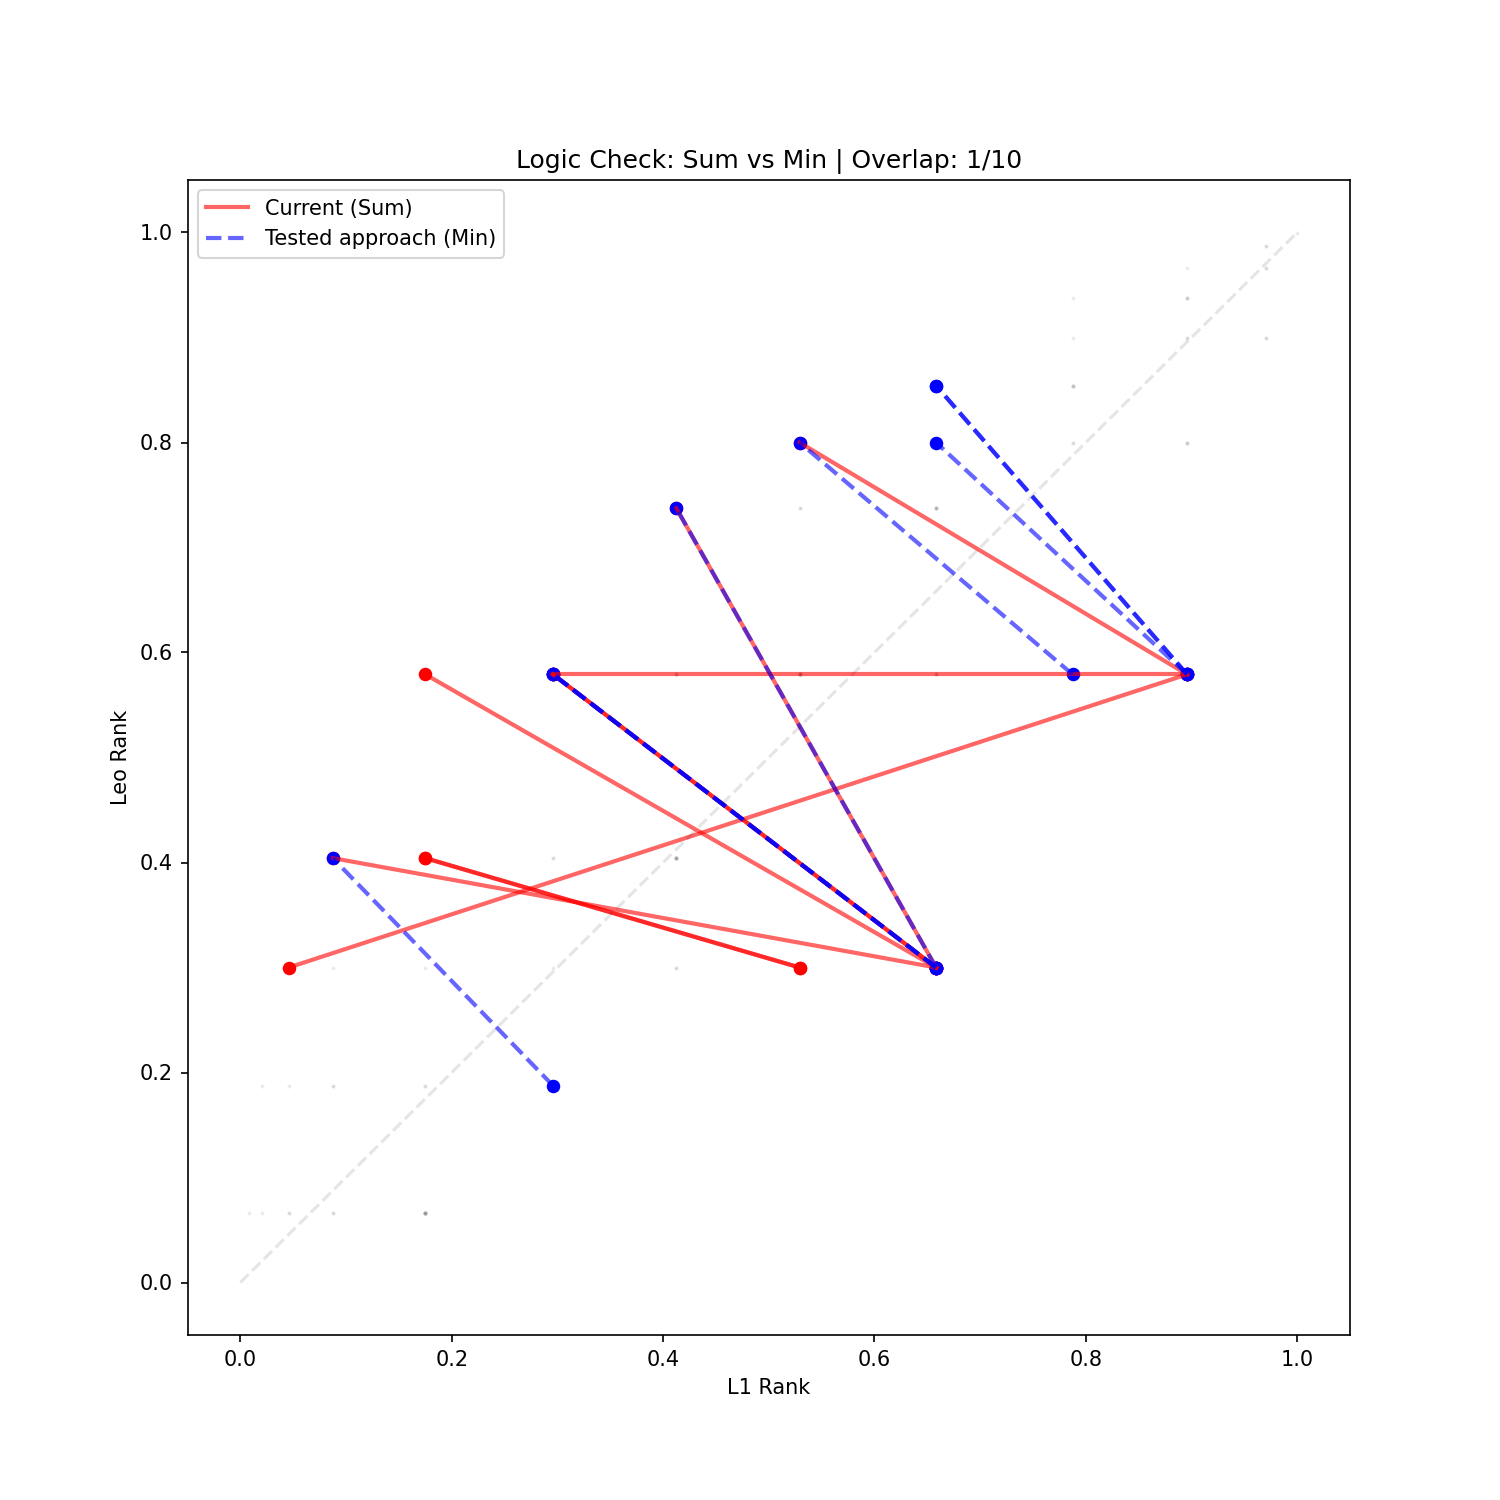
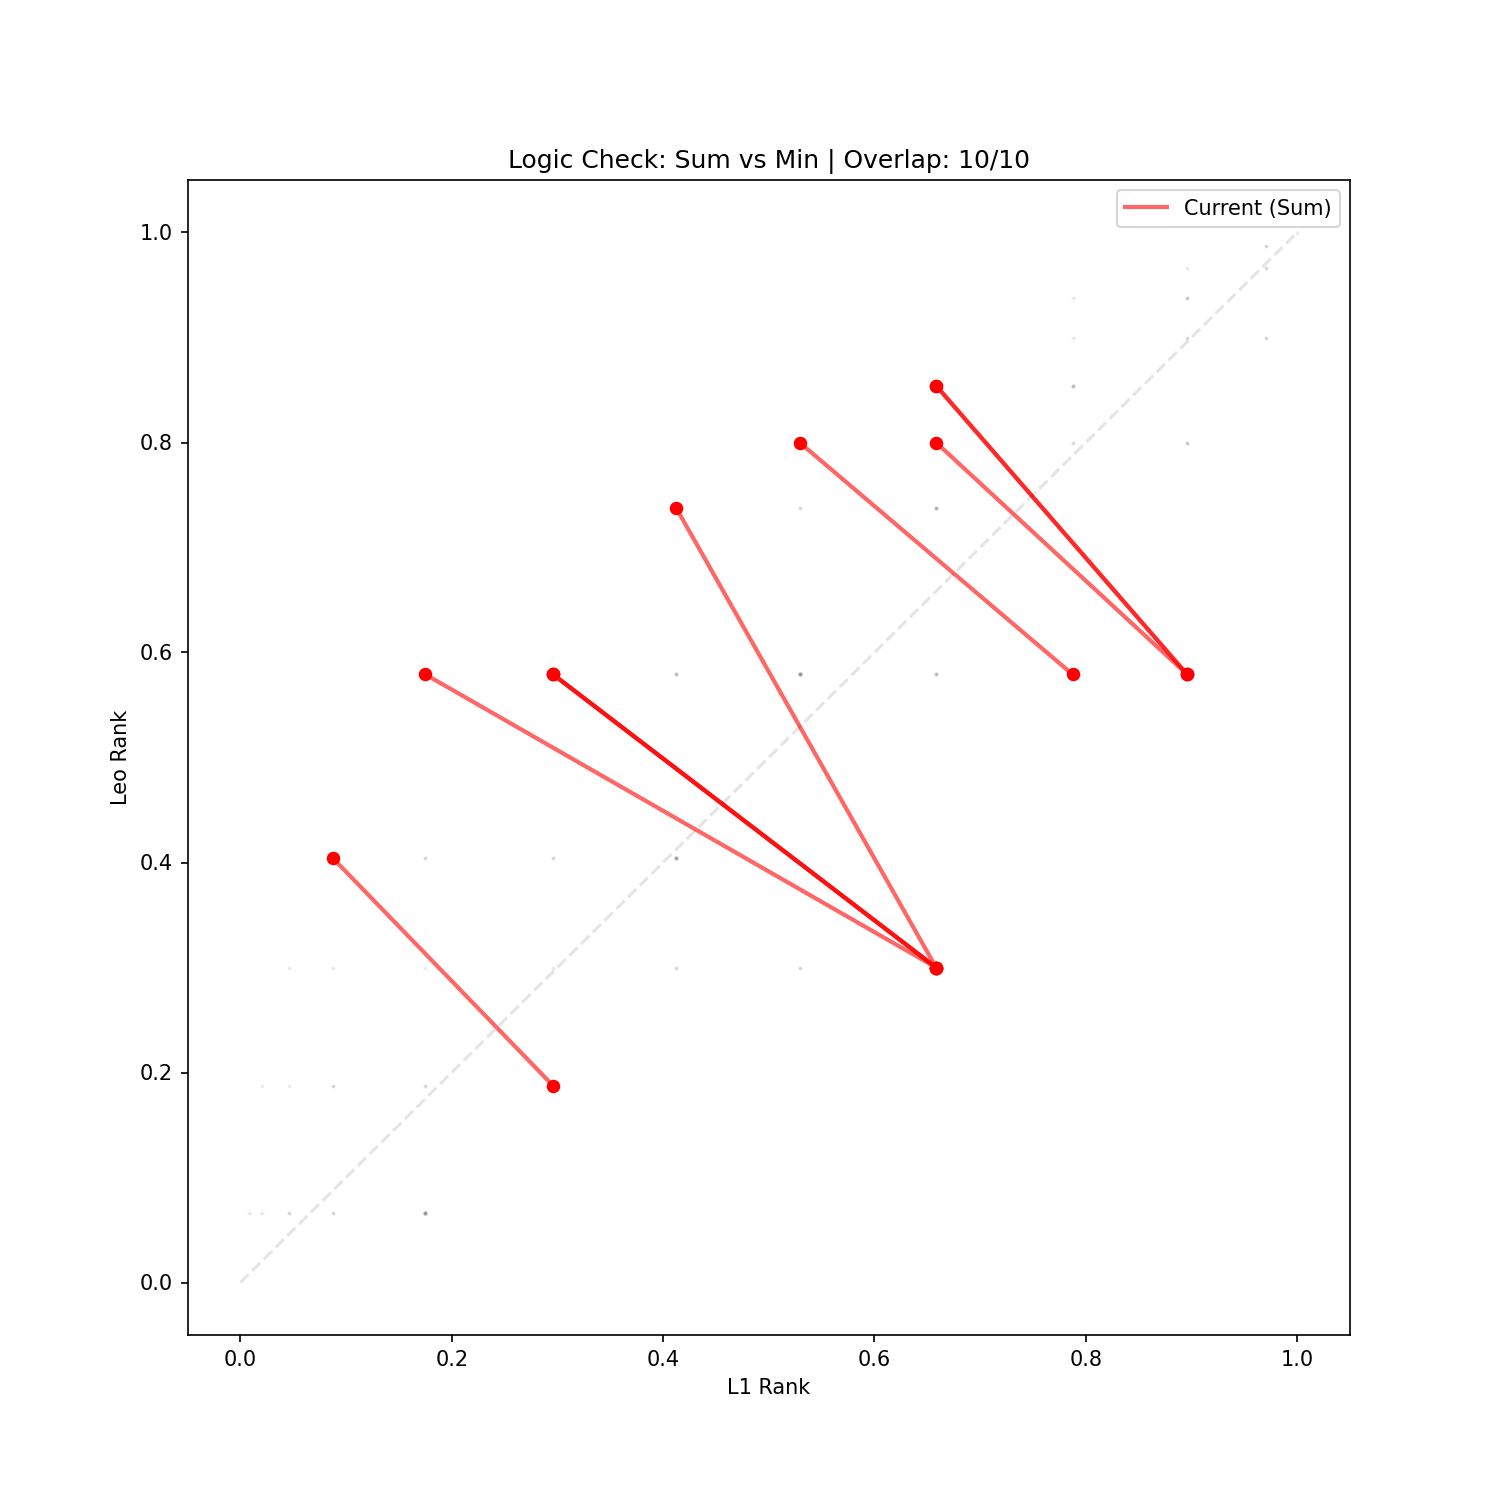
feat: refactor pair generation to Max-Min Rank Strategy
Replaces the "Adaptive Relaxation" algorithm (Sum + Balance Tolerance) with
a mathematical "Max-Min" optimization strategy. This ensures pairs are selected
based on the strongest mutual trade-off rather than symmetric thresholds.

Key Changes:
- Replaced Random Sticks generation with Discrete Simplex (step=5) for uniform coverage.
- Implemented O(N^2) Max-Min search: Score = min(L1_Gain, Leontief_Gain).
- Enforced strict unique vector usage (no reuse across pairs).
- Updated generation metadata to store separation scores.
- Validated via A/B testing (0% overlap with legacy strategy).

diff --git a/application/services/pair_generation/optimization_metrics_rank.py b/application/services/pair_generation/optimization_metrics_rank.py
@@ -11,7 +11,7 @@ edges, and centers of the vector space without sampling bias.
 
 import logging
 import math
-from typing import Dict, Generator, List, Optional, Set, Tuple
+from typing import Dict, Generator, List, Set, Tuple
 
 import numpy as np
 
@@ -115,12 +115,12 @@ def rankdata(a: np.ndarray, method: str = "average") -> np.ndarray:
 
 class OptimizationMetricsRankStrategy(PairGenerationStrategy):
     """
-    Strategy using rank-based normalization for pair generation.
+    Strategy using rank-based normalization with Max-Min optimization.
 
-    Instead of comparing raw L1 and Leontief values directly (which are
-    on different scales), this strategy normalizes both metrics to
-    percentile ranks (0.0 to 1.0). It then uses an adaptive relaxation
-    mechanism to find pairs with complementary trade-offs.
+    This strategy performs a brute-force search over the discrete simplex grid to find pairs that
+    maximize the minimum advantage (Max-Min) for both metrics simultaneously.
+    L1 and Leontief values are normalized to percentile ranks (0.0 to 1.0)
+    to enable fair comparison across different metric scales.
     """
 
     # Constants validated in reference implementation
@@ -129,16 +129,6 @@ class OptimizationMetricsRankStrategy(PairGenerationStrategy):
     STEP_SIZE = 5
     MIN_COMPONENT = 10
     MAX_COMPONENT = 100
-
-    # Relaxation levels: (epsilon, balance_tolerance)
-    # Start strict, progressively relax constraints if needed
-    RELAXATION_LEVELS = [
-        (0.25, 1.5),  # Level 1: Excellent separation
-        (0.20, 2.0),  # Level 2: Strong separation
-        (0.15, 3.0),  # Level 3: Moderate separation
-        (0.10, 4.0),  # Level 4: Minimum viable signal
-        (0.05, 5.0),  # Level 5: SAFETY NET
-    ]
 
     def generate_vector_pool(self, size: int, vector_size: int) -> Set[tuple]:
         """
@@ -261,132 +251,76 @@ class OptimizationMetricsRankStrategy(PairGenerationStrategy):
         l1_ranks: np.ndarray,
         leontief_ranks: np.ndarray,
         target_pairs: int,
-    ) -> List[Tuple[int, int, int, float, float]]:
+    ) -> List[Tuple[int, int, float]]:
         """
-        Find pairs with complementary trade-offs using Best-First Search.
-        Scans all candidates and selects those with maximum metric separation.
-        """
-        discrepancies = l1_ranks - leontief_ranks
-        found_pairs = []
-        used_indices = set()
+        Brute-force search for complementary pairs using a max-min score.
 
-        # Iterate through relaxation levels
-        for level_idx, (epsilon, balance_tol) in enumerate(self.RELAXATION_LEVELS, 1):
-            if len(found_pairs) >= target_pairs:
+        A candidate pair (i, j) is valid iff one vector outranks the other on
+        L1 while the other outranks on Leontief. The score is the minimum of
+        the two advantages, encouraging balanced trade-offs.
+        """
+        _ = vectors  # kept for signature compatibility
+        n = len(l1_ranks)
+        candidates: List[Tuple[int, int, float]] = []
+
+        for i in range(n):
+            for j in range(i + 1, n):
+                l1_gain = l1_ranks[i] - l1_ranks[j]
+                leo_gain = leontief_ranks[j] - leontief_ranks[i]
+
+                if l1_gain > 0 and leo_gain > 0:
+                    score = min(l1_gain, leo_gain)
+                    candidates.append((i, j, score))
+                elif l1_gain < 0 and leo_gain < 0:
+                    # Swap direction: j beats i on L1, i beats j on Leontief
+                    score = min(-l1_gain, -leo_gain)
+                    candidates.append((j, i, score))
+
+        candidates.sort(key=lambda item: item[2], reverse=True)
+
+        selected: List[Tuple[int, int, float]] = []
+        used_indices: Set[int] = set()
+
+        for idx_a, idx_b, score in candidates:
+            if len(selected) >= target_pairs:
                 break
+            if idx_a in used_indices or idx_b in used_indices:
+                continue
+            selected.append((idx_a, idx_b, score))
+            used_indices.update({idx_a, idx_b})
 
-            # Identify all potential candidates for this level
-            type_a_indices = np.where(discrepancies > epsilon)[0]
-            type_b_indices = np.where(discrepancies < -epsilon)[0]
+        if len(selected) < target_pairs:
+            # Fallback: If we couldn't find enough pairs with positive
+            # trade-offs (rare in simplex grid), fill the quota with the best
+            # available L1 vectors paired against the best available Leontief
+            # vectors.
+            l1_order = np.argsort(-l1_ranks)
+            leo_order = np.argsort(-leontief_ranks)
+            leo_ptr = 0
 
-            # Store candidates with a quality score
-            level_candidates = []
-
-            for a_idx in type_a_indices:
-                if a_idx in used_indices:
+            for idx_a in l1_order:
+                if len(selected) >= target_pairs:
+                    break
+                if idx_a in used_indices:
                     continue
 
-                # Performance opt: Don't scan B's that are already used
-                # We can filter type_b_indices dynamically if this is too slow,
-                # but with 10k vectors, this nested loop is acceptable (~0.5s).
-
-                a_disc = discrepancies[a_idx]
-
-                for b_idx in type_b_indices:
-                    if b_idx in used_indices or b_idx == a_idx:
+                while leo_ptr < len(leo_order):
+                    idx_b = leo_order[leo_ptr]
+                    leo_ptr += 1
+                    if idx_b in used_indices or idx_b == idx_a:
                         continue
-                    b_disc = discrepancies[b_idx]
 
-                    # Check Balance Ratio
-                    if abs(b_disc) > 0.001:
-                        ratio = abs(a_disc) / abs(b_disc)
-                    else:
-                        ratio = float("inf")
-
-                    if 1 / balance_tol <= ratio <= balance_tol:
-                        # QUALITY METRIC: Total Separation
-                        # We want pairs that are FAR apart in rank space.
-                        # Score = (A's L1 advantage) + (B's Leontief advantage)
-                        # This maximizes the trade-off clarity for the user.
-                        score = (l1_ranks[a_idx] - l1_ranks[b_idx]) + (
-                            leontief_ranks[b_idx] - leontief_ranks[a_idx]
-                        )
-
-                        level_candidates.append(
-                            {
-                                "indices": (a_idx, b_idx),
-                                "meta": (level_idx, epsilon, balance_tol),
-                                "score": score,
-                            }
-                        )
-
-            # Sort candidates by score (Best First)
-            # This ensures we pick the "Diamonds" from the pool,
-            # not just the first matches.
-            level_candidates.sort(key=lambda x: x["score"], reverse=True)
-
-            # Select the best pairs, respecting usage constraints
-            for cand in level_candidates:
-                if len(found_pairs) >= target_pairs:
+                    selected.append((idx_a, idx_b, 0.0))
+                    used_indices.update({idx_a, idx_b})
                     break
 
-                a, b = cand["indices"]
-                if a not in used_indices and b not in used_indices:
-                    found_pairs.append((*cand["indices"], *cand["meta"]))
-                    used_indices.add(a)
-                    used_indices.add(b)
-
-        return found_pairs
-
-    def _generate_fallback_pairs(
-        self,
-        l1_ranks: np.ndarray,
-        leontief_ranks: np.ndarray,
-        target_pairs: int,
-        excluded: Optional[Set[int]] = None,
-    ) -> List[Tuple[int, int, int, float, float]]:
-        """
-        Deterministic fallback pairing when rank discrepancies collapse.
-
-        Pairs best L1-ranked vectors with best Leontief-ranked vectors while
-        respecting uniqueness constraints so we can still surface options.
-        """
-        if target_pairs <= 0:
-            return []
-
-        excluded = set(excluded or set())
-        epsilon, balance_tol = self.RELAXATION_LEVELS[-1]
-        level = len(self.RELAXATION_LEVELS)
-
-        l1_order = np.argsort(-l1_ranks)
-        leo_order = np.argsort(-leontief_ranks)
-
-        pairs: List[Tuple[int, int, int, float, float]] = []
-        leo_ptr = 0
-
-        for a_idx in l1_order:
-            if len(pairs) >= target_pairs or leo_ptr >= len(leo_order):
-                break
-            if a_idx in excluded:
-                continue
-
-            while leo_ptr < len(leo_order):
-                b_idx = leo_order[leo_ptr]
-                leo_ptr += 1
-                if b_idx in excluded or b_idx == a_idx:
-                    continue
-
-                pairs.append((a_idx, b_idx, level, epsilon, balance_tol))
-                excluded.update({a_idx, b_idx})
-                break
-
-        return pairs
+        return selected
 
     def generate_pairs(
         self, user_vector: tuple, n: int, vector_size: int
     ) -> List[Dict[str, tuple]]:
         """
-        Generate pairs using rank-based normalization with adaptive relaxation.
+        Generate pairs using rank-based normalization with Max-Min selection.
 
         Args:
             user_vector: The user's ideal budget allocation
@@ -395,7 +329,7 @@ class OptimizationMetricsRankStrategy(PairGenerationStrategy):
 
         Returns:
             List of dicts containing vectors and embedded __metadata__ key
-            with generation level information
+            with score and strategy information
 
         Raises:
             ValueError: If unable to generate enough valid pairs
@@ -421,20 +355,10 @@ class OptimizationMetricsRankStrategy(PairGenerationStrategy):
         # Convert to normalized ranks
         l1_ranks, leontief_ranks = self._compute_ranks(l1_distances, leontief_ratios)
 
-        # Find complementary pairs with adaptive relaxation
+        # Find complementary pairs via brute-force max-min scan
         pair_indices = self._find_complementary_pairs(
             vector_pool, l1_ranks, leontief_ranks, n
         )
-
-        if len(pair_indices) < n:
-            used_indices = {idx for pair in pair_indices for idx in pair[:2]}
-            fallback_pairs = self._generate_fallback_pairs(
-                l1_ranks,
-                leontief_ranks,
-                n - len(pair_indices),
-                excluded=used_indices,
-            )
-            pair_indices.extend(fallback_pairs)
 
         if len(pair_indices) < n:
             logger.warning(
@@ -449,7 +373,7 @@ class OptimizationMetricsRankStrategy(PairGenerationStrategy):
 
         # Build result pairs with metadata
         result_pairs = []
-        for idx_a, idx_b, level, epsilon, balance_tol in pair_indices[:n]:
+        for idx_a, idx_b, score in pair_indices[:n]:
             vec_a = vector_pool[idx_a]
             vec_b = vector_pool[idx_b]
 
@@ -481,17 +405,19 @@ class OptimizationMetricsRankStrategy(PairGenerationStrategy):
                 ): leo_vec,
                 # Embed metadata for pipeline to extract and persist
                 "__metadata__": {
-                    "level": level,
-                    "epsilon": epsilon,
-                    "balance_tolerance": balance_tol,
+                    "score": float(score),
+                    "strategy": "max_min_rank",
                 },
             }
             result_pairs.append(pair)
 
             logger.info(
-                f"Generated pair using Level {level} "
-                f"(epsilon={epsilon}, balance_tol={balance_tol}): "
-                f"L1={l1_best}/{l1_worst}, Leo={leo_best:.2f}/{leo_worst:.2f}"
+                "Generated pair (score=%.3f): L1=%s/%s, Leo=%.2f/%.2f",
+                score,
+                l1_best,
+                l1_worst,
+                leo_best,
+                leo_worst,
             )
 
         self._log_pairs(result_pairs)

diff --git a/tests/services/pair_generation/test_optimization_metrics_rank.py b/tests/services/pair_generation/test_optimization_metrics_rank.py
@@ -192,9 +192,8 @@ class TestMetadataGeneration:
         for pair in pairs:
             assert "__metadata__" in pair
             metadata = pair["__metadata__"]
-            assert "level" in metadata
-            assert "epsilon" in metadata
-            assert "balance_tolerance" in metadata
+            assert metadata["strategy"] == "max_min_rank"
+            assert "score" in metadata
 
     def test_metadata_values_valid(self, strategy):
         """Test that metadata values are within expected ranges."""
@@ -203,9 +202,8 @@ class TestMetadataGeneration:
 
         for pair in pairs:
             metadata = pair["__metadata__"]
-            assert 1 <= metadata["level"] <= 5
-            assert 0.05 <= metadata["epsilon"] <= 0.25
-            assert 1.5 <= metadata["balance_tolerance"] <= 5.0
+            assert metadata["strategy"] == "max_min_rank"
+            assert 0 <= metadata["score"] <= 1
 
 
 class TestCornerCases:
@@ -215,8 +213,8 @@ class TestCornerCases:
         """
         Test with a corner vector containing zero.
 
-        This tests the adaptive relaxation mechanism - with extreme vectors,
-        it may need to use looser constraints to find valid pairs.
+        This ensures the brute-force max-min approach still surfaces pairs
+        when vectors are highly skewed.
         """
         user_vector = (95, 5, 0)
         pairs = strategy.generate_pairs(user_vector, n=10, vector_size=3)
